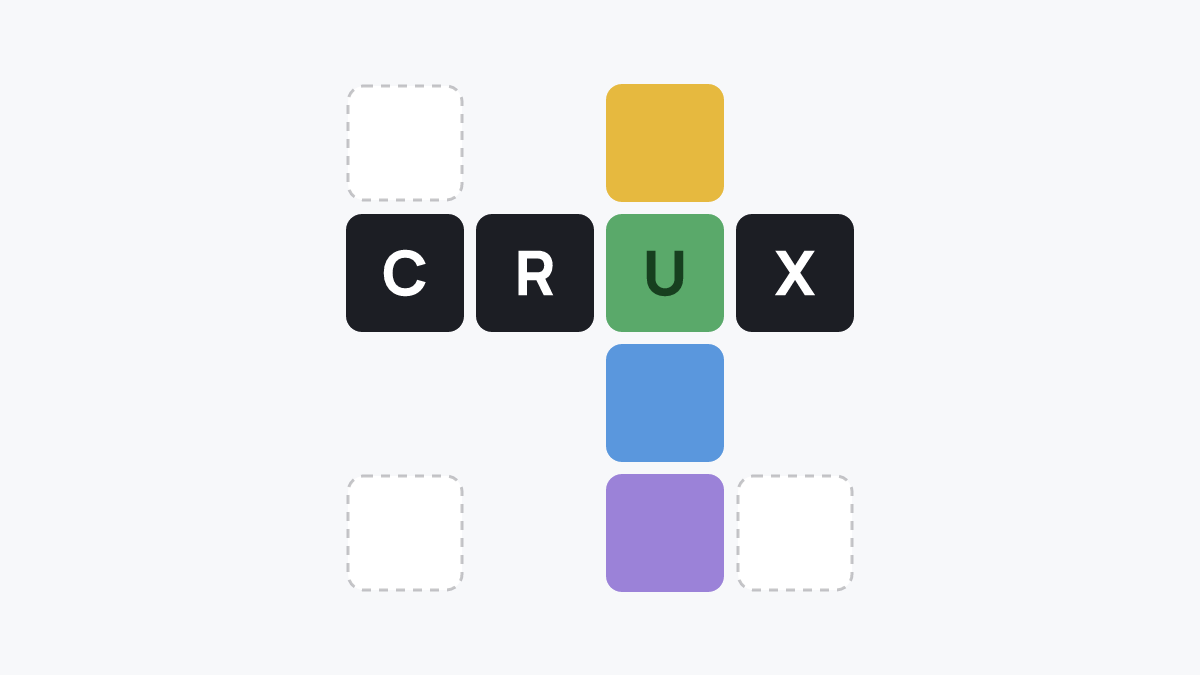
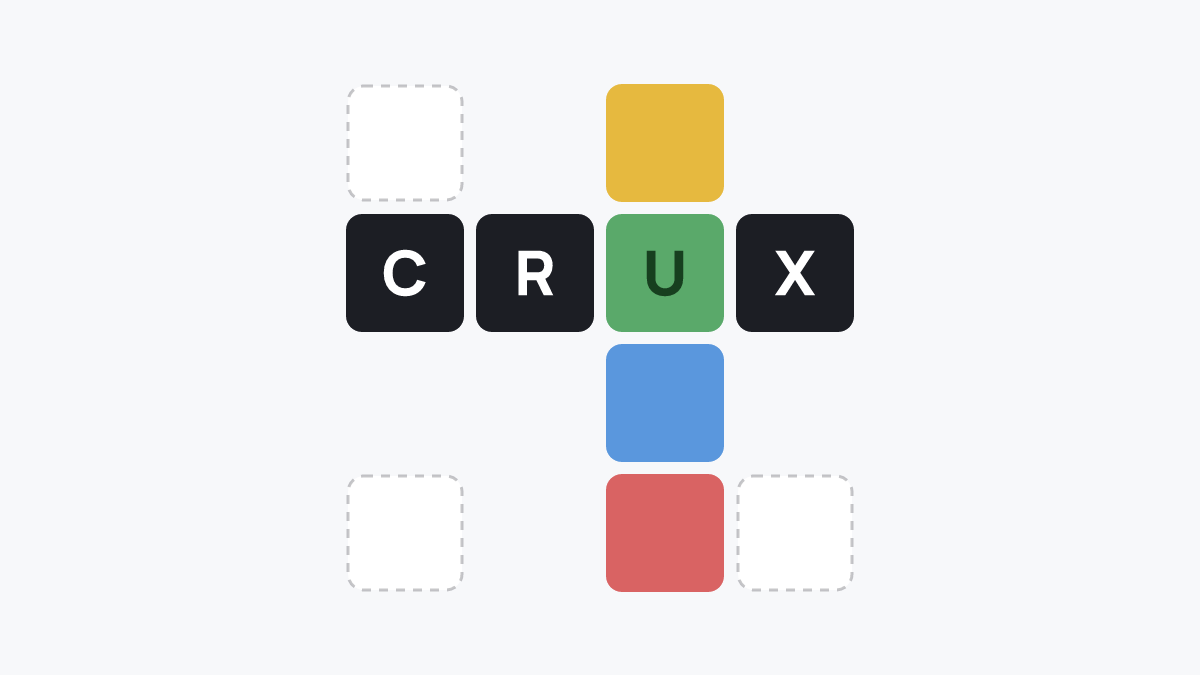
Crux scoring goes composite /16 (8 for crossword solves + 8 for correct placements): out-of-guesses now enters the filing phase — place your solved words and lock in for a score, no lock-in = no score (0-solve budgets still end at 0/16); leaderboard/share/result read the 16 scale; fourth category pu

Changed region(s): [[0.4933, 0.6844, 0.6167, 0.9022]]

diff --git a/app/crux/CruxClient.jsx b/app/crux/CruxClient.jsx
@@ -37,13 +37,14 @@ const COLORS = {
 };
 const SANS = "'Manrope', system-ui, -apple-system, sans-serif";
 
-// Category palette, easiest -> trickiest (owner reverted to the classic
-// quartet 2026-07-07 — matches the Links boards' difficulty colors).
+// Category palette, easiest -> trickiest: yellow, green, blue, RED — the
+// fourth is red (owner call 2026-07-07) so the set isn't the familiar
+// grouping-game quartet.
 const CAT_COLORS = [
   { bg: '#e6b93f', tc: '#5c4a06', sq: '\u{1F7E8}' },
   { bg: '#5aa96a', tc: '#173f1f', sq: '\u{1F7E9}' },
   { bg: '#5a97dd', tc: '#0c3a66', sq: '\u{1F7E6}' },
-  { bg: '#9b82d8', tc: '#2e1f60', sq: '\u{1F7EA}' },
+  { bg: '#d96363', tc: '#571212', sq: '\u{1F7E5}' },
 ];
 
 // ─── Puzzles ────────────────────────────────────────────────────────────────
@@ -451,6 +452,7 @@ export default function CruxClient({ forceNum = null }) {
   // ---- input ----
   const onKey = useCallback((k) => {
     if (g.status !== 'playing') return;
+    if (g.left <= 0) return;
     if (!slot || g.solved[sel]) return;
     if (k === 'ENTER') submit();
     else if (k === 'BACK') setTyped((t) => t.slice(0, -1));
@@ -531,9 +533,14 @@ export default function CruxClient({ forceNum = null }) {
 
     const allSolved = PUZZLE.slots.every((s) => g2.solved[s.id]);
     if (!allSolved && g2.left <= 0) {
-      g2.status = 'lost';
-      g2.tEnd = Date.now();
-      postResult(g2);
+      if (g2.order.length === 0) {
+        g2.status = 'lost';
+        g2.filedRight = 0;
+        g2.tEnd = Date.now();
+        postResult(g2, 0);
+      } else {
+        say('Out of guesses — place your solved words, then lock it in');
+      }
     }
     setTyped('');
     if (g2.solved[sel] && g2.status === 'playing') setSel(nextUnsolved(g2, sel));
@@ -552,7 +559,7 @@ export default function CruxClient({ forceNum = null }) {
         method: 'POST',
         keepalive: true,
         headers: { 'Content-Type': 'application/json' },
-        body: JSON.stringify({ quizId: PUZZLE.quizId, score: sc, total: PUZZLE.slots.length, correct: sc, timeElapsed: el, email: identity?.email || undefined, anonId: getAnonId(), isMobile: isMobileDevice(), referrer: (typeof document !== 'undefined' ? document.referrer : '') }),
+        body: JSON.stringify({ quizId: PUZZLE.quizId, score: sc, total: PUZZLE.slots.length * 2, correct: sc, timeElapsed: el, email: identity?.email || undefined, anonId: getAnonId(), isMobile: isMobileDevice(), referrer: (typeof document !== 'undefined' ? document.referrer : '') }),
       })
         .then((r) => r.json())
         .then((d) => { if (d && !d.error) setBoard({ ...EMPTY_BOARD, ...d }); })
@@ -580,16 +587,21 @@ export default function CruxClient({ forceNum = null }) {
     setG({ ...g, assigned: assigned2 });
     setPick(null);
   }
-  // ONE lock-in, and it concludes the game (owner decision 2026-07-07): the
-  // final score is however many words sit in the right category. No retries.
+  // ONE lock-in, and it concludes the game. Score is out of 16: a point per
+  // word solved plus a point per word correctly categorized. Available at a
+  // full solve, or once the guess budget is spent (place what you solved).
+  // No lock-in, no score — abandoned games never post.
   function lockIn() {
     if (!playing) return;
-    const allSolved = PUZZLE.slots.every((s) => g.solved[s.id]);
-    const allPlaced = PUZZLE.slots.every((s) => g.assigned[s.word] !== undefined);
-    if (!allSolved || !allPlaced) return;
-    const right = PUZZLE.slots.filter((s) => PUZZLE.categories[g.assigned[s.word]].words.includes(s.word)).length;
-    const g2 = { ...g, filedRight: right, status: right === PUZZLE.slots.length ? 'won' : 'lost', tEnd: Date.now() };
-    postResult(g2, right);
+    const solvedSlots = PUZZLE.slots.filter((s) => g.solved[s.id]);
+    const allSolved = solvedSlots.length === PUZZLE.slots.length;
+    const placedAll = solvedSlots.every((s) => g.assigned[s.word] !== undefined);
+    if (!placedAll || solvedSlots.length === 0) return;
+    if (!allSolved && g.left > 0) return;
+    const right = solvedSlots.filter((s) => PUZZLE.categories[g.assigned[s.word]].words.includes(s.word)).length;
+    const score = solvedSlots.length + right;
+    const g2 = { ...g, filedRight: right, status: score === PUZZLE.slots.length * 2 ? 'won' : 'lost', tEnd: Date.now() };
+    postResult(g2, score);
     setG(g2);
   }
 
@@ -628,7 +640,7 @@ export default function CruxClient({ forceNum = null }) {
     const head = g.status === 'won'
       ? `Solved in ${guessesUsed} guesses · ${elapsed}`
       : g.filedRight != null
-        ? `Locked in ${g.filedRight}/8`
+        ? `Locked in ${g.order.length + g.filedRight}/16`
         : `${g.order.length}/8 words`;
     return `Crux #${PUZZLE.num}\n${head}\n${squares}${g.order.length < 8 ? ' ⬛'.repeat(8 - g.order.length) : ''}\nsourceoftruths.com/crux`;
   }
@@ -671,8 +683,9 @@ export default function CruxClient({ forceNum = null }) {
     .filter((s) => g.solved[s.id] && g.assigned[s.word] === undefined)
     .map((s) => s.word);
   const readyToLock = playing
-    && PUZZLE.slots.every((s) => g.solved[s.id])
-    && PUZZLE.slots.every((s) => g.assigned[s.word] !== undefined);
+    && g.order.length > 0
+    && PUZZLE.slots.filter((s) => g.solved[s.id]).every((s) => g.assigned[s.word] !== undefined)
+    && (g.order.length === PUZZLE.slots.length || g.left <= 0);
 
   const lost = g.status === 'lost';
   const won = g.status === 'won';
@@ -823,8 +836,8 @@ export default function CruxClient({ forceNum = null }) {
               </div>
             )}
 
-            {/* keyboard */}
-            {playing && (
+            {/* keyboard (hidden once the budget is spent — filing phase) */}
+            {playing && g.left > 0 && (
               <div style={{ maxWidth: 470 }}>
                 {KB.map((row, ri) => (
                   <div key={ri} style={{ display: 'flex', gap: 4, marginBottom: 5, justifyContent: 'center' }}>
@@ -911,13 +924,13 @@ export default function CruxClient({ forceNum = null }) {
             {!playing && (
               <div style={{ background: '#fff', border: `2px solid ${COLORS.ink}`, borderRadius: 12, padding: '16px 16px 14px', marginBottom: 14 }}>
                 <div style={{ fontSize: 19, fontWeight: 800, color: won ? COLORS.ink : COLORS.rust, marginBottom: 4 }}>
-                  {won ? 'You got to the crux of the matter.' : g.filedRight != null ? `Locked in at ${g.filedRight}/8.` : 'Out of guesses.'}
+                  {won ? 'You got to the crux of the matter.' : g.filedRight != null ? `Locked in at ${g.order.length + g.filedRight}/16.` : 'Out of guesses.'}
                 </div>
                 <div style={{ fontSize: 13.5, fontWeight: 700, color: COLORS.faded, marginBottom: 12 }}>
                   {won
                     ? <>{guessesUsed} guesses &middot; {elapsed}</>
                     : g.filedRight != null
-                      ? <>{g.filedRight} of 8 in the right category &middot; the reveal is on the board</>
+                      ? <>{g.order.length}/8 words &middot; {g.filedRight}/8 placements &middot; the reveal is on the board</>
                       : <>{g.order.length} of 8 words &middot; the reveal is on the board</>}
                 </div>
                 <div style={{ display: 'flex', gap: 8, flexWrap: 'wrap' }}>
@@ -959,7 +972,7 @@ export default function CruxClient({ forceNum = null }) {
           </div>
         )}
         <div style={{ maxWidth: 760, margin: '26px auto 0', background: '#fff', border: '1.5px solid rgba(20,22,28,0.12)', borderRadius: 12, padding: '14px 16px' }}>
-          <QuizLeaderboard board={board} identity={identity} total={PUZZLE.slots.length} />
+          <QuizLeaderboard board={board} identity={identity} total={PUZZLE.slots.length * 2} />
         </div>
       </div>
 
@@ -985,7 +998,7 @@ export default function CruxClient({ forceNum = null }) {
               <p style={{ margin: '0 0 10px' }}><b>Eight words</b> interlock in the grid. There are no clues &mdash; the <b>four categories</b> are the only hints. Each category owns exactly <b>two</b> of the eight words.</p>
               <p style={{ margin: '0 0 10px' }}><b>Guess to reveal.</b> Tap a slot, type any letters, hit enter. <span style={{ background: COLORS.ink, color: '#fff', borderRadius: 4, padding: '1px 6px', fontWeight: 800 }}>Dark</span> = right letter, right square &mdash; it locks into the grid, including for the crossing word. <span style={{ background: '#e6b93f', color: '#5c4a06', borderRadius: 4, padding: '1px 6px', fontWeight: 800 }}>Yellow</span> = in this word, different square.</p>
               <p style={{ margin: '0 0 10px' }}><b>The whole board shares {PUZZLE.guesses} guesses.</b> Crossings are your friend: a locked letter narrows every word it touches.</p>
-              <p style={{ margin: '0 0 10px' }}><b>File your solves.</b> Tap a solved word, then a category, to place it &mdash; placements stay secret, and tapping a placed word takes it back. When all eight are placed, <b>lock it in &mdash; you get exactly one</b>. Your final score is how many words sit in the right category. Beware: some words look right in two categories.</p>
+              <p style={{ margin: '0 0 10px' }}><b>File your solves.</b> Tap a solved word, then a category, to place it &mdash; placements stay secret, and tapping a placed word takes it back. When every solved word is placed, <b>lock it in &mdash; you get exactly one</b>. Scoring is out of 16: a point per word solved, a point per word in the right category. Out of guesses? You still place what you solved and lock in &mdash; no lock-in, no score. Beware: some words look right in two categories.</p>
               <p style={{ margin: 0, color: COLORS.faded, fontSize: 12.5 }}>Win by solving all eight words and filing all four pairs. If every letter of a word gets locked by crossings, it solves itself &mdash; free.</p>
             </div>
             <button className="cl-btn" onClick={() => { setShowHelp(false); try { localStorage.setItem(HELP_KEY, '1'); } catch (e) {} }} style={{ marginTop: 14, background: COLORS.ink, color: '#fff' }}>Play</button>
